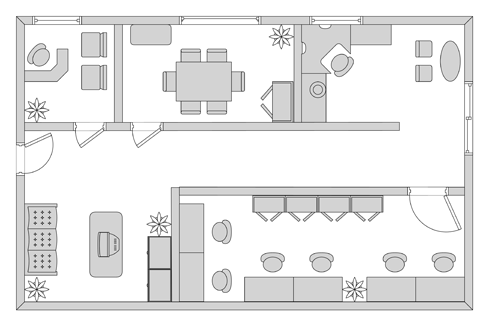
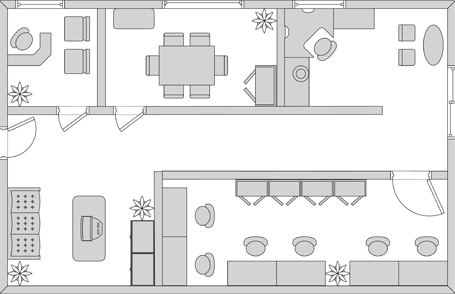
Arranged home view

diff --git a/app/assets/stylesheets/custom.css.scss b/app/assets/stylesheets/custom.css.scss
@@ -17,9 +17,8 @@ textarea {
 
 .center {
 	text-align: center;
-	margin-top: 20px;
-	margin-bottom: 20px;
-	height: 500px;
+	margin: 30px 150px 70px 150px;
+	height: 450px;
 	position: relative;
 	img {
 		width: 100%;
@@ -31,7 +30,6 @@ textarea {
 		position: absolute;
 		top: 0;
 		left: 0;
-		padding: 35px;
 		#heatmap-container {
 			width: 100%;
 			height: 100%;

diff --git a/test/controllers/static_pages_controller_test.rb b/test/controllers/static_pages_controller_test.rb
@@ -4,24 +4,24 @@ class StaticPagesControllerTest < ActionController::TestCase
   test "should get home" do
     get :home
     assert_response :success
-    assert_select "title", "Thermopile PJ"
+    assert_select "title", "Thermopile Project"
   end
 
   test "should get help" do
     get :help
     assert_response :success
-    assert_select "title", "HELP | Thermopile PJ"
+    assert_select "title", "HELP | Thermopile Project"
   end
 
   test "should get about" do
     get :about
     assert_response :success
-    assert_select "title", "ABOUT | Thermopile PJ"
+    assert_select "title", "ABOUT | Thermopile Project"
   end
 
   test "should get contact" do
     get :contact
     assert_response :success
-    assert_select "title", "CONTACT | Thermopile PJ"
+    assert_select "title", "CONTACT | Thermopile Project"
   end
 end

diff --git a/app/helpers/application_helper.rb b/app/helpers/application_helper.rb
@@ -1,7 +1,7 @@
 module ApplicationHelper
 
   def full_title(page_title = '')
-    base_title = "Thermopile PJ"
+    base_title = "Thermopile Project"
     if page_title.empty? 
       base_title
     else
